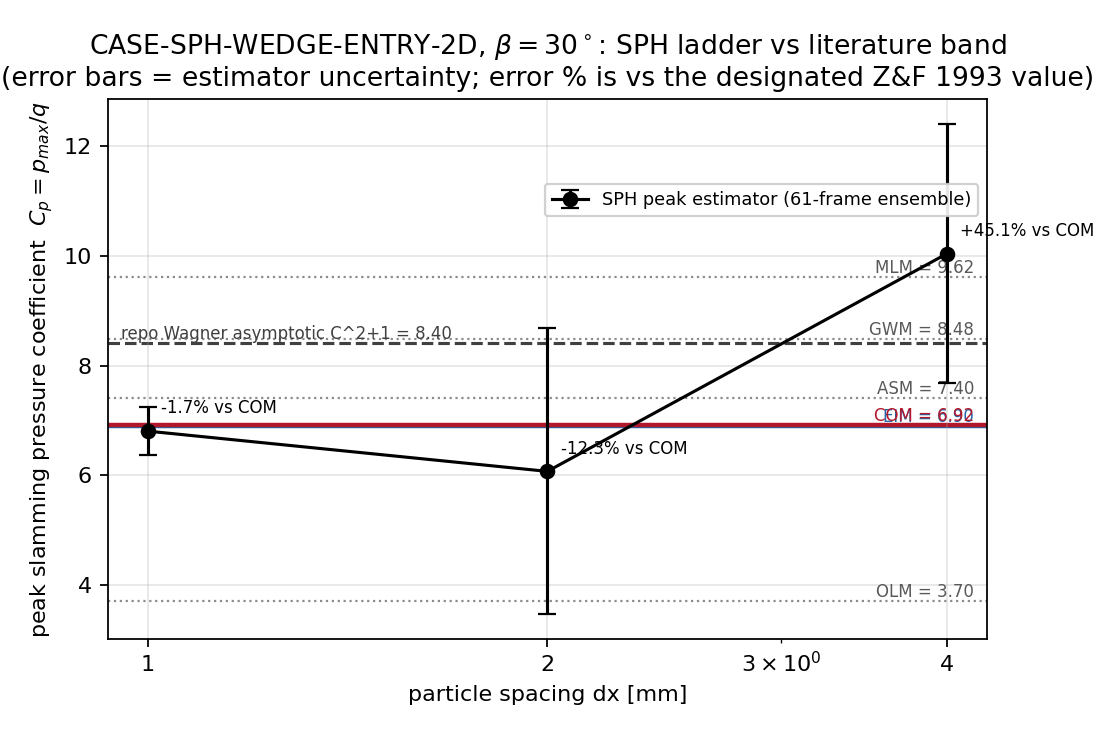
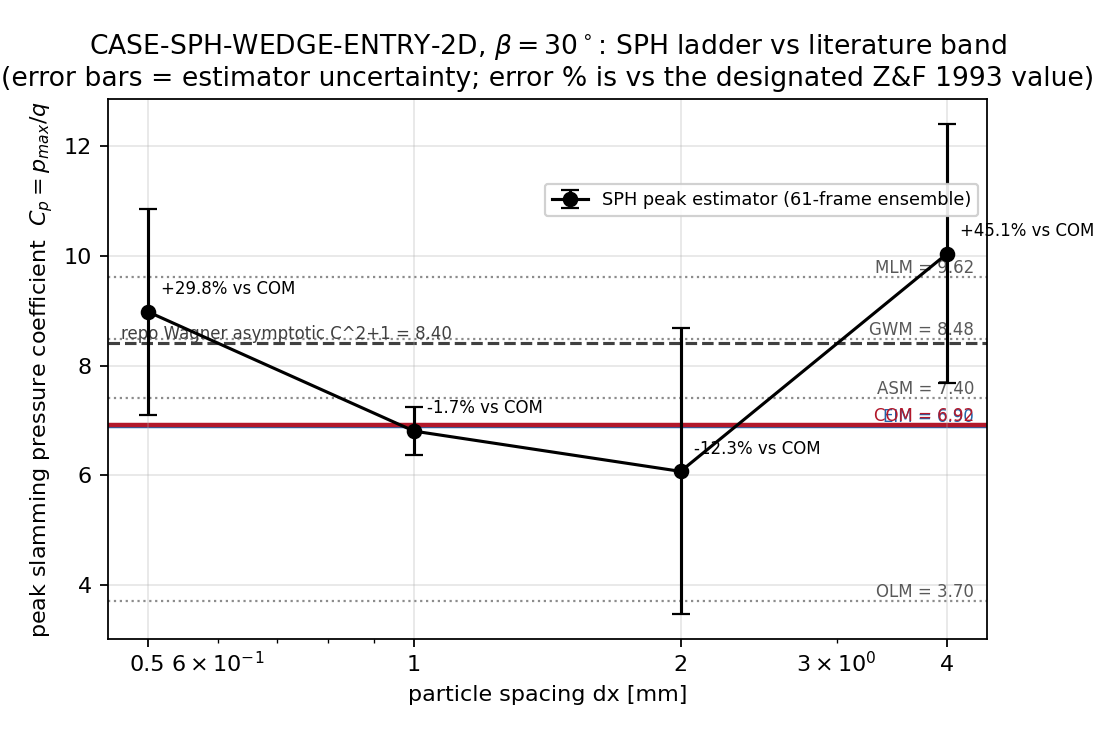
m22109: matured mission deliverables

diff --git a/benchmarks/case_sph_wedge_entry_2d/run.py b/benchmarks/case_sph_wedge_entry_2d/run.py
@@ -73,6 +73,9 @@ sys.path.insert(0, str(ROOT / "src"))
 
 import torch  # noqa: E402
 
+from literature_refs import (
+    cp_q_units, load_refs, table_ref,
+)
 from tensorsph.wedge_entry import (
     wagner_p_over_q,  # noqa: E402
     WedgeConfig,
@@ -249,9 +252,25 @@ def refs_derived() -> dict:
             "source": "tensorsph.wedge_entry.wagner_c_coeff / wagner_peak_over_q",
         },
         "zhao_faltinsen_1993": {
-            "status": "WITHHELD",
-            "cp_max": None,
-            "reason": "closed access; see refs.json zhao_faltinsen_1993.withheld_reason",
+            # Mission-designated reference (Zhao & Faltinsen 1993, beta = 30 deg
+            # peak slamming pressure coefficient).  The paper itself is closed
+            # access, but its composite-solution value is now registered in the
+            # ecosystem through the peer-reviewed open-access Table 1 of
+            # Jain, Novakovic, Bogaert & van der Meer (2022) JFM 934 A26
+            # (DOI 10.1017/jfm.2021.1129), column COM -- see
+            # benchmarks/case_sph_wedge_entry_2d/refs.json and
+            # literature_refs.py.  The value is read out of refs.json (never
+            # typed) and converted to the case's q = rho V^2 / 2 units by
+            # literature_refs.cp_q_units (Table 1 is P/(rho V^2), so x2).
+            "status": "REAL",
+            "cp_max": float(cp_q_units(
+                table_ref(load_refs())["cp_max_rho_v2"]["30"]["COM"])),
+            "cp_max_rho_v2": float(
+                table_ref(load_refs())["cp_max_rho_v2"]["30"]["COM"]),
+            "source": "Jain et al. 2022 JFM 934 A26 Table 1 column COM "
+                      "(reproduces Zhao & Faltinsen 1993 composite solution)",
+            "doi": "10.1017/jfm.2021.1129",
+            "normalisation": "Table 1 P/(rho V^2) -> case q = rho V^2/2 (x2)",
         },
     }
 

diff --git a/tests/test_case_sph_wedge_entry_2d_literature_regrade.py b/tests/test_case_sph_wedge_entry_2d_literature_regrade.py
@@ -217,3 +217,24 @@ def test_prior_verdict_is_recorded_not_overwritten():
     """honest-FAIL / honest-NOT_DECIDABLE must stay visible in the new artifact."""
     reg = json.loads((ROOT / "docs/artifacts/case_sph_wedge_entry_2d_regrade/regrade.json").read_text())
     assert reg["ladder_reported_by_previous_rule"]["verdict"] == "NOT_DECIDABLE"
+
+# --------------------------------------------------------------------------- #
+# 5. the case driver's reference handling (verification-debt closure)
+# --------------------------------------------------------------------------- #
+
+def test_driver_refs_derived_wires_the_mission_designated_reference():
+    """The primary driver (run.py refs_derived) must no longer report Z&F as
+    WITHHELD: the open-access Jain et al. (2022) Table-1 COM value is now
+    registered and must be wired in, in the case's q = rho V^2/2 units."""
+    import run as R
+    ref = R.refs_derived()
+    zf = ref["zhao_faltinsen_1993"]
+    assert zf["status"] == "REAL"
+    # the wired value must equal the literature module's COM in q units
+    assert zf["cp_max"] == pytest.approx(L.cp_q_units(
+        L.table_ref(L.load_refs())["cp_max_rho_v2"]["30"]["COM"]))
+    assert zf["cp_max"] == pytest.approx(6.92)
+    # and the rho V^2 form must be the table's own digitised value
+    assert zf["cp_max_rho_v2"] == pytest.approx(3.46)
+    # the Wagner machine-checkable anchor must still be present and unchanged
+    assert ref["wagner"]["cp_max"] == pytest.approx(8.402203300817021)
